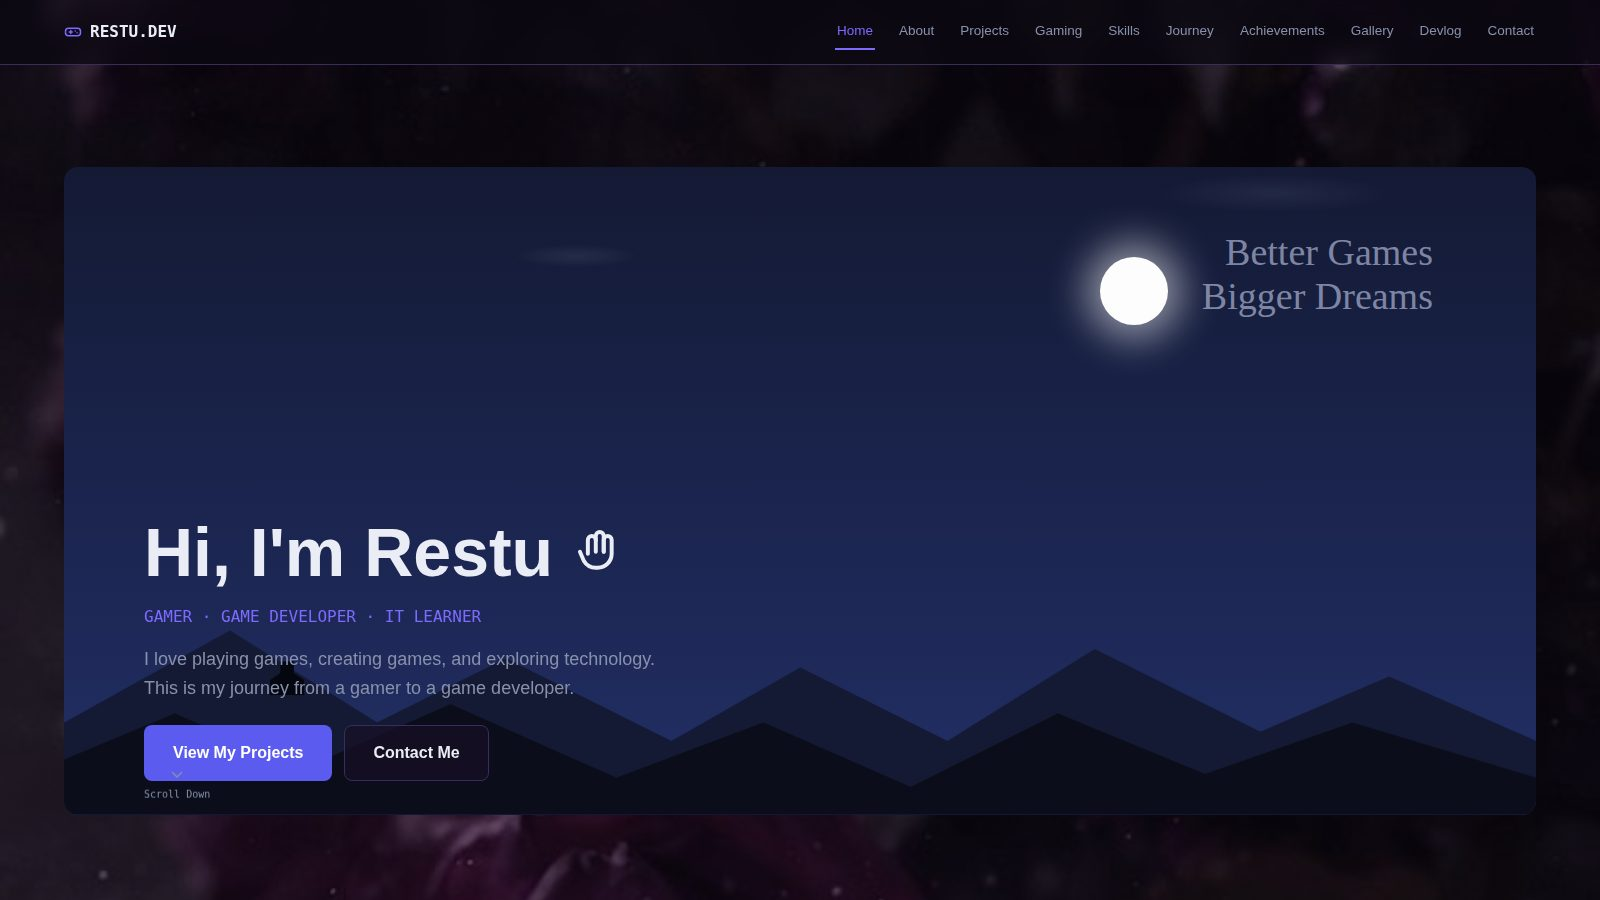
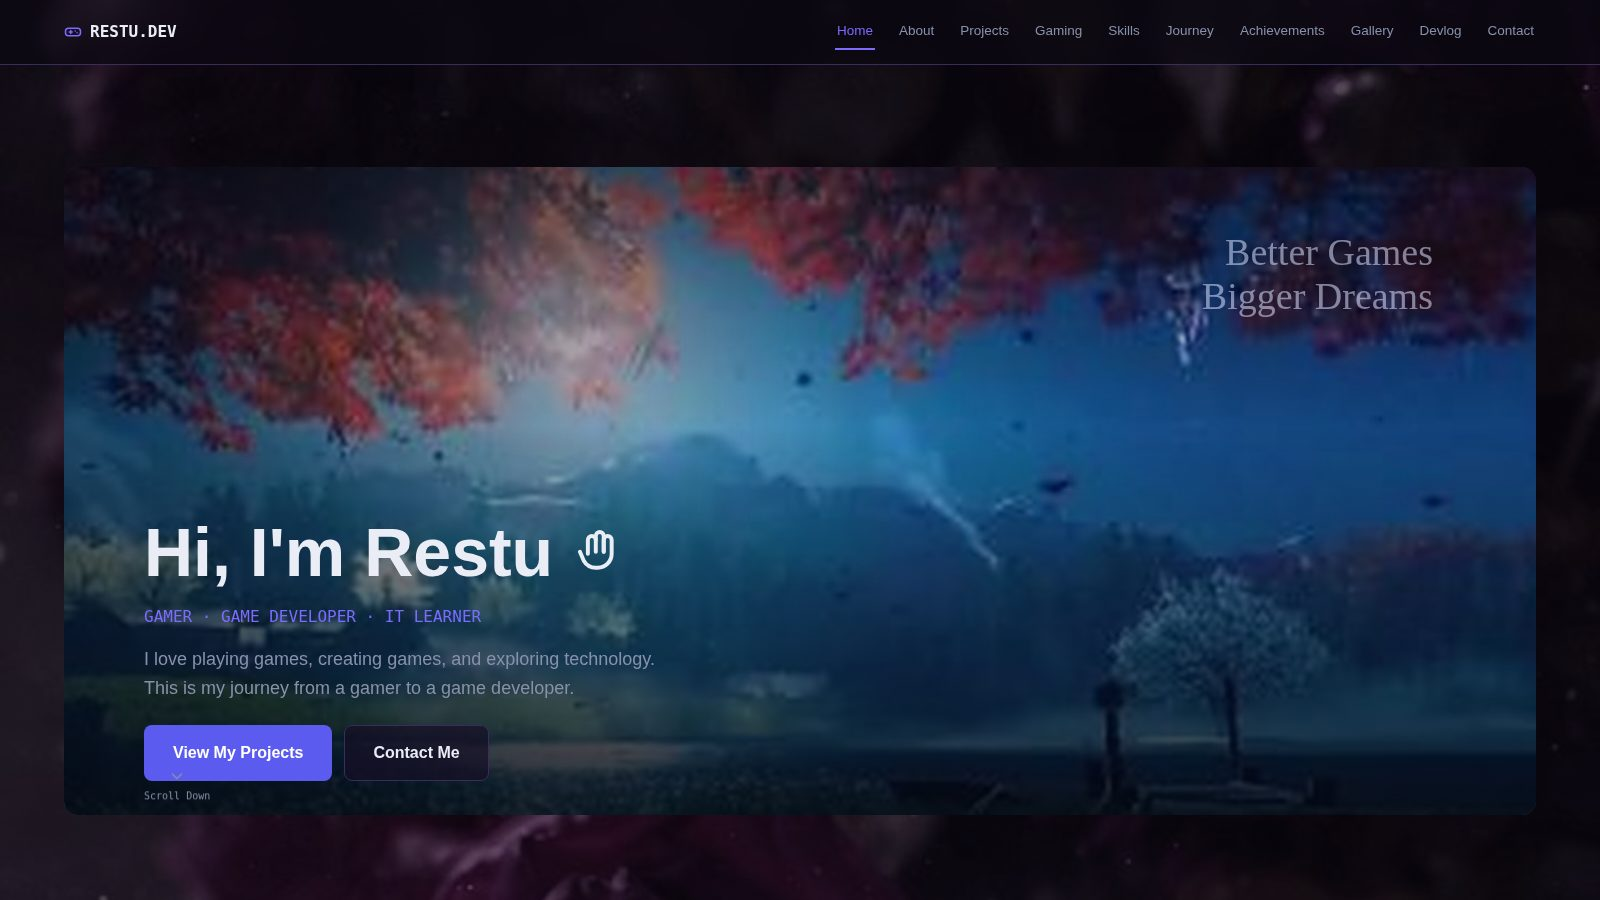
Add files via upload

diff --git a/css/style.css b/css/style.css
@@ -403,3 +403,36 @@ nav .bar > .brand{display:flex; height:auto; background:none}
   background:linear-gradient(115deg,rgba(5,5,8,.8) 0%,rgba(5,5,8,0) 48%), radial-gradient(ellipse at center,transparent 60%,rgba(5,5,8,.5) 100%)}
 .pixel-card .journey-quote{position:relative; z-index:3; text-shadow:0 2px 10px rgba(0,0,0,.9)}
 @media (min-width:1024px){ .pixel-card{min-height:420px} .pixel-card .journey-quote{font-size:16px} }
+
+/* ===== HERO: foto latar bergerak (Ken Burns) + kunang-kunang ===== */
+.hero-photo{position:relative; overflow:hidden; border-radius:var(--radius); background:#050912}
+.hero-photo-img{position:absolute; inset:-6%; background-size:cover; background-position:center; z-index:0;
+  animation:heroKenBurns 24s ease-in-out infinite alternate}
+.hero-photo-overlay{position:absolute; inset:0; z-index:1; pointer-events:none;
+  background:
+    linear-gradient(0deg, rgba(4,6,14,.85) 0%, rgba(4,6,14,.38) 40%, rgba(4,6,14,.12) 60%, rgba(4,6,14,.5) 100%),
+    linear-gradient(100deg, rgba(4,6,14,.55) 0%, rgba(4,6,14,0) 48%)}
+.fireflies{position:absolute; inset:0; z-index:1; pointer-events:none}
+.fireflies span{position:absolute; width:3px; height:3px; border-radius:50%; background:#ffe9a8;
+  box-shadow:0 0 6px 2px rgba(255,233,168,.9); opacity:0; animation:firefly 7s ease-in-out infinite}
+.fireflies span:nth-child(1){left:12%; top:70%; animation-delay:.2s}
+.fireflies span:nth-child(2){left:22%; top:55%; animation-delay:1.6s}
+.fireflies span:nth-child(3){left:35%; top:75%; animation-delay:3.1s}
+.fireflies span:nth-child(4){left:48%; top:60%; animation-delay:.8s}
+.fireflies span:nth-child(5){left:61%; top:72%; animation-delay:2.4s}
+.fireflies span:nth-child(6){left:74%; top:50%; animation-delay:4s}
+.fireflies span:nth-child(7){left:85%; top:68%; animation-delay:1.2s}
+.fireflies span:nth-child(8){left:92%; top:40%; animation-delay:3.6s}
+
+@keyframes heroKenBurns{0%{transform:scale(1) translate(0,0)}100%{transform:scale(1.1) translate(-1.8%,-1.2%)}}
+@keyframes firefly{
+  0%{opacity:0; transform:translate(0,0)}
+  15%{opacity:1}
+  50%{opacity:.4; transform:translate(10px,-16px)}
+  85%{opacity:1; transform:translate(-6px,-30px)}
+  100%{opacity:0; transform:translate(4px,-42px)}
+}
+
+@media (prefers-reduced-motion: reduce){
+  .hero-photo-img, .fireflies span{animation:none}
+}

diff --git a/index.html b/index.html
@@ -125,11 +125,12 @@
 </nav>
 
 <section class="hero" id="home"><div class="wrap">
-  <div class="hero-scene scenic scenic-tall">
-    <div class="cloud cloud1"></div>
-    <div class="cloud cloud2"></div>
-    <div class="cloud cloud3"></div>
-    <div class="moon"></div>
+  <div class="hero-scene hero-photo scenic-tall">
+    <div class="hero-photo-img" style="background-image:url('images/hero-bg.jpg')"></div>
+    <div class="hero-photo-overlay"></div>
+    <div class="fireflies" aria-hidden="true">
+      <span></span><span></span><span></span><span></span><span></span><span></span><span></span><span></span>
+    </div>
     <div class="dream-text">Better Games<br>Bigger Dreams</div>
     <div class="hero-copy">
       <h1>Hi, I'm Restu <svg class="icon" aria-hidden="true"><use href="#i-wave"/></svg></h1>
@@ -140,11 +141,6 @@
         <a href="#contact" class="btn btn-ghost">Contact Me</a>
       </div>
     </div>
-    <svg class="mountains" viewBox="0 0 800 140" preserveAspectRatio="none">
-      <path d="M0 140 L0 90 90 40 170 90 240 55 330 100 400 60 480 100 560 50 650 95 720 65 800 100 800 140 Z" fill="#141a34"/>
-      <path d="M0 140 L0 110 60 85 130 115 210 80 300 120 380 90 460 125 540 85 620 118 700 90 800 120 800 140 Z" fill="#0b0e1a"/>
-    </svg>
-    <div class="figure"></div>
     <div class="scroll-cue"><svg class="icon"><use href="#i-chevron-down"/></svg><span>Scroll Down</span></div>
   </div>
 </div></section>

diff --git a/README.md b/README.md
@@ -36,7 +36,7 @@ Website portofolio pribadi bertema *"From Gamer to Game Developer"*. Dibangun de
 
 ## Fitur
 
-- **Hero Section** — perkenalan singkat dengan latar malam yang beranimasi: bintang berkelip, awan tipis melayang, bulan dengan cahaya berdenyut, serta gunung dan karakter yang bergerak pelan
+- **Hero Section** — perkenalan singkat dengan foto latar bertema malam yang "hidup": efek Ken Burns (zoom & geser pelan otomatis) plus kunang-kunang melayang berkedip
 - **Background Parallax** — gambar mawar ungu sebagai latar seluruh halaman; ikut bergerak saat di-*scroll* (lebih pelan dari konten sehingga terasa ada kedalaman)
 - **Layout Full Desktop** — konten melebar memenuhi layar (hingga 1440px, dan 1680px di layar sangat lebar), bukan lagi kolom sempit di tengah
 - **About Me** — bio, statistik ringkas di bawah bio (di samping avatar), lalu kutipan di baris paling bawah
@@ -79,6 +79,7 @@ restu-portfolio/
 |---|---|
 | `avatar.jpg` | Foto profil di About Me |
 | `bg-roses.jpg` | Background seluruh halaman (parallax) |
+| `hero-bg.jpg` | Foto latar bergerak (Ken Burns) di Hero |
 | `game-minecraft.jpg`, `game-valorant.jpg`, `game-mobilelegends.jpg`, `game-genshin.jpg`, `game-gtav.jpg`, `game-roblox.jpg` | Cover di Gaming Journey |
 | `project-zombie-survival.jpg`, `project-first-unity-game.jpg` | Thumbnail Game Projects |
 | `pixel-scene.jpg` | Latar animasi mini game di kartu Journey |
@@ -138,6 +139,7 @@ Simpan gambar baru di folder `images/` lalu ubah nama file di field `img` pada `
 ### Pengaturan lain
 
 - **Kecepatan gerak background:** ubah angka `F = 0.28` di `js/parallax.js` (`0` = diam, makin besar makin cepat).
+- **Foto latar Hero:** kecepatan & jarak zoom Ken Burns diatur lewat `@keyframes heroKenBurns` di `css/style.css` (ubah `scale()` dan durasi `animation` pada `.hero-photo-img`).
 - **Mini game Journey:** kecepatan lari, tinggi lompatan, dan jumlah koin diatur di bagian atas `js/pixel-scene.js` (`SPEED`, `JUMP_H`) dan fungsi `spawnLevel()`.
 - **Gelap/terang background:** ubah nilai `rgba(11,8,18,…)` pada `.bg-parallax` di `css/style.css`.
 
